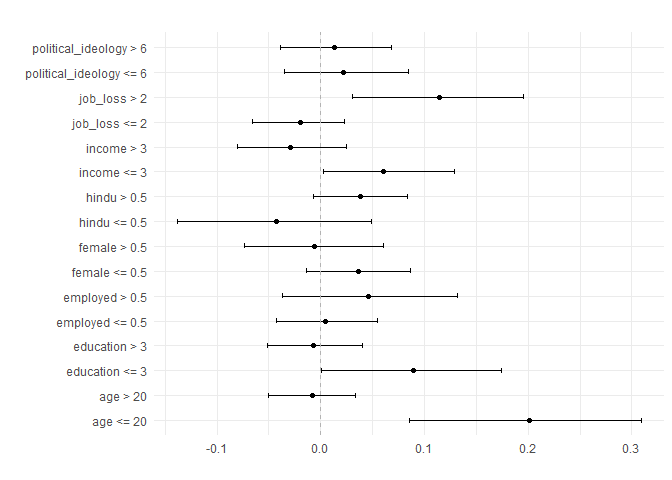
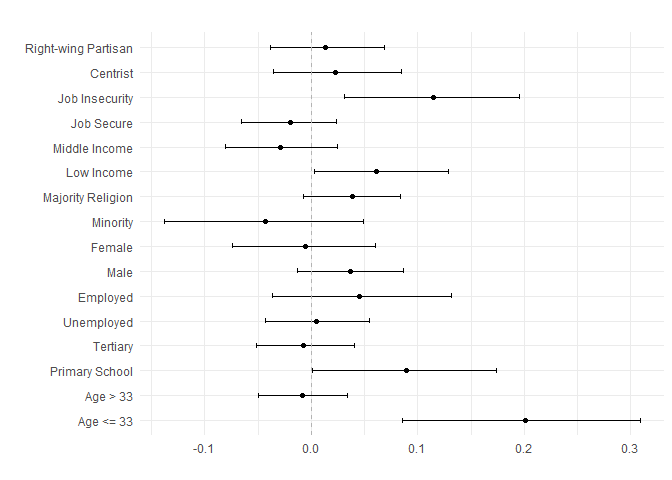
edit figures and tutorials

diff --git a/tutorial_files/tutorial.md b/tutorial_files/tutorial.md
@@ -642,35 +642,44 @@ points for subgroups. If a covariate is binary, the value for its cut
 off should be between 0-1.
 
 ``` r
-hte_plot(xlearner_nn, cut_points = c(20, .5, 3, 3, .5, 2, .5, 6), boot = TRUE,
+cuts = c(20, .5, 3, 3, .5, 2, .5, 6)
+
+labels <- c("Age <= 33", "Age > 33", "Primary School", "Tertiary", "Unemployed",         
+            "Employed", "Male", "Female",  "Minority", "Majority Religion" ,
+            "Low Income",  "Middle Income",  "Job Secure",  "Job Insecurity",
+            "Centrist", "Right-wing Partisan")
+```
+
+``` r
+hte_plot(xlearner_nn, cut_points = cuts, custom_labels = labels, boot = TRUE,
          n_boot = 1000)
 ```
 
-![](tutorial_files/figure-gfm/htex-1.png)<!-- -->
+![](tutorial_files/figure-gfm/hte-1.png)<!-- -->
 
 ``` r
-hte_plot(slearner_nn, cut_points = c(20, .5, 3, 3, .5, 2, .5, 6), boot = TRUE,
+hte_plot(slearner_nn, cut_points = cuts, custom_labels = labels, boot = TRUE,
          n_boot = 1000)
 ```
 
 ![](tutorial_files/figure-gfm/htes-1.png)<!-- -->
 
 ``` r
-hte_plot(tlearner_nn, cut_points = c(20, .5, 3, 3, .5, 2, .5, 6), boot = TRUE,
+hte_plot(tlearner_nn, cut_points = cuts, custom_labels = labels, boot = TRUE,
          n_boot = 1000)
 ```
 
 ![](tutorial_files/figure-gfm/htet-1.png)<!-- -->
 
 ``` r
-hte_plot(pattc_en, cut_points = c(20, .5, 3, 3, .5, 2, .5, 6), boot = TRUE,
+hte_plot(pattc_en, cut_points = cuts, custom_labels = labels, boot = TRUE,
          n_boot = 1000)
 ```
 
 ![](tutorial_files/figure-gfm/hte_patten-1.png)<!-- -->
 
 ``` r
-hte_plot(pattc_nn, cut_points = c(20, .5, 3, 3, .5, 2, .5, 6), boot = TRUE,
+hte_plot(pattc_nn, cut_points = cuts, custom_labels = labels, boot = TRUE,
          n_boot = 1000)
 ```
 
